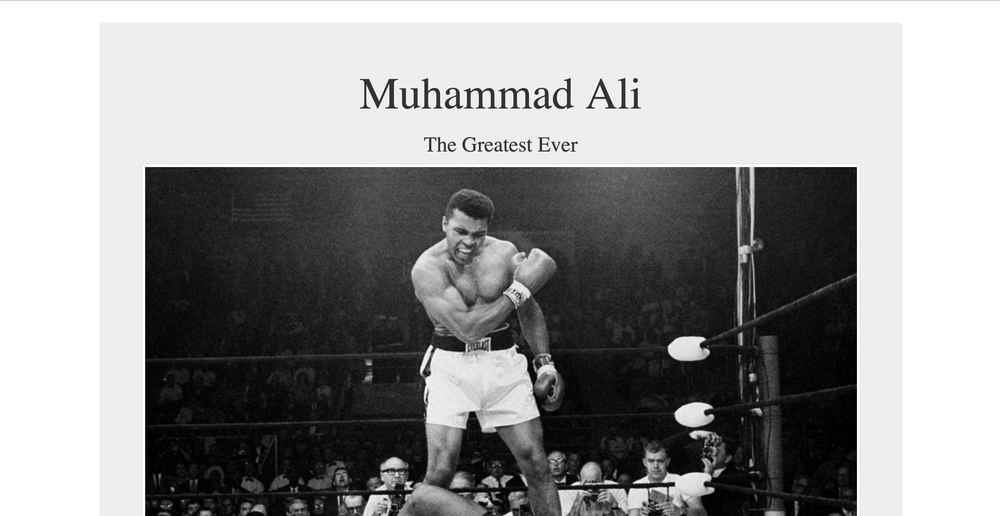
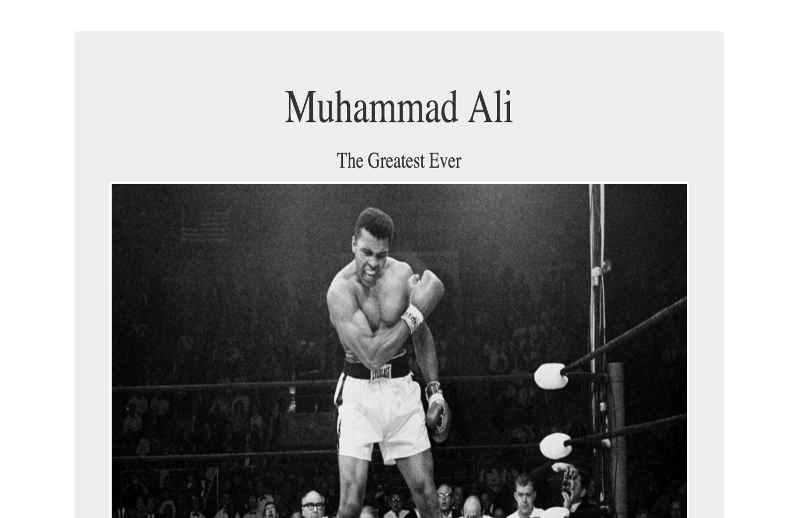
add images

diff --git a/Gruntfile.js b/Gruntfile.js
@@ -19,16 +19,16 @@ module.exports = function(grunt) {
             quality: 40
             },{
             name: "medium",
-            width: 320,
+            width: 360,
             quality: 40
             },{
             name: "large",
-            width: 640,
+            width: 420,
             suffix: "-1x",
-            quality: 40
+            quality: 70
             },{
             name: "large",
-            width: 1000,
+            width: 800,
             suffix: '-2x',
             quality: 40
           }]

diff --git a/css/style.css b/css/style.css
@@ -2,4 +2,9 @@ body {
   position: relative;
   padding-top: 50px;
 }
+img {
+	max-width: 100%;
+	height: auto;
+	display: block;
+}
 
